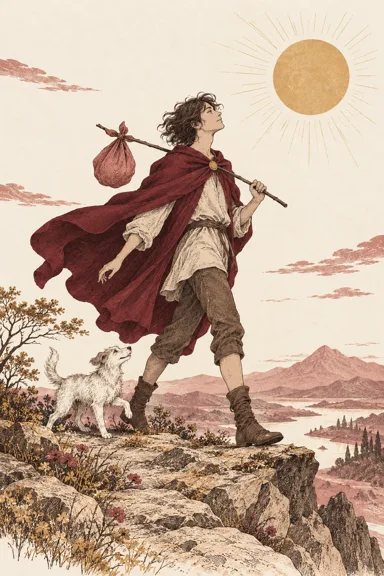
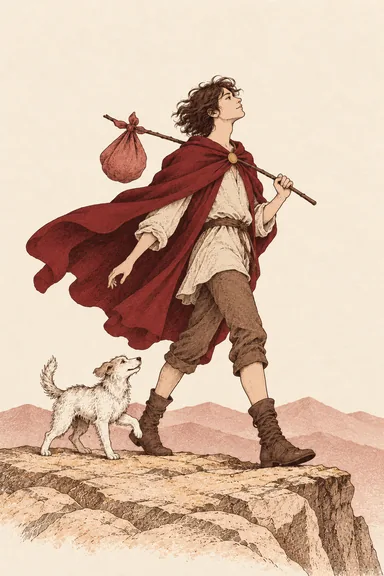
Polish v0.2 release: complete 78-card artwork, mobile QC, reading and SEO QA

diff --git a/public/style.css b/public/style.css
@@ -10,3 +10,6 @@ header,main,footer{max-width:1240px;padding-left:48px;padding-right:48px}header{
 @media(max-width:800px){header,main,footer{padding-left:26px;padding-right:26px}header{height:102px}nav{gap:18px}.home-intro{column-gap:30px}h1{font-size:44px}.primary-grid,.secondary-grid{grid-template-columns:repeat(2,1fr)}.reading-tile:nth-child(2){border-right:0}.reading-tile:nth-child(n+3){border-top:1px solid var(--line)}.deck{grid-template-columns:repeat(10,minmax(0,1fr))}.footer-grid{grid-template-columns:1.5fr 1fr 1fr}.card-summary{gap:10px}.summary-item>p{font-size:12px}}
 @media(max-width:520px){header,main,footer{padding-left:20px;padding-right:20px}header{height:auto;min-height:104px;flex-wrap:wrap;padding-top:18px;padding-bottom:13px;gap:16px}.brand{font-size:28px}.brand small{font-size:9px;letter-spacing:2px}nav{width:100%;gap:0;justify-content:space-between;font-size:14px}nav a{padding:5px 0}.home-intro{display:block;padding:35px 0}.home-intro h1{font-size:37px}.home-intro p{font-size:16px;margin-top:20px}.home-intro .kicker{font-size:11px;letter-spacing:1.4px}.quiet-label{display:block;margin-top:17px;font-size:13px}.section-heading h2{font-size:23px}.section-heading>span{font-size:10px;max-width:100px;text-align:right}.primary-grid,.secondary-grid{gap:0}.reading-tile{min-height:225px;padding:22px 15px}.tile-index{font-size:12px;margin-bottom:23px}.tile-top{font-size:23px}.tile-bottom{font-size:14px}.tile-link{font-size:14px;padding-top:20px}.small{min-height:172px;padding:20px 15px}.small .tile-top{font-size:19px}.small .tile-bottom{font-size:14px}.how{grid-template-columns:1fr;gap:25px;padding:35px 0}.how h2{font-size:28px}.about{padding:35px 0}.about h2{font-size:27px}.about p{font-size:16px}.trust-line{gap:18px;flex-wrap:wrap}.guide-teaser h2{font-size:25px}.footer-grid{grid-template-columns:1fr 1fr;gap:27px}.footer-grid>div:first-child{grid-column:1/-1}.footer-grid>div>a:not(.brand){font-size:14px}.footer-bottom,footer .disclaimer{font-size:12px}.reading-intro{margin-top:28px}.reading-intro h1{font-size:37px}.reading-intro p:not(.lead){font-size:16px}.reading-intro .lead{font-size:20px}.reading-meta{gap:12px;font-size:13px}.reading-meta span+span{padding-left:12px}.question-panel{padding:25px 20px;border-radius:0}.panel-heading h2{font-size:23px}.panel-heading p{font-size:16px}.question-panel label>span{font-size:13px}.deck{grid-template-columns:repeat(6,minmax(0,1fr));gap:7px}.card-back:before{font-size:20px;width:23px;height:33px}.card-back:after{inset:8px}.selection-heading h2{font-size:25px}.card-summary{overflow-x:auto;justify-content:flex-start;padding:4px 2px 15px;gap:12px}.summary-item{flex:0 0 109px}.mini-card{padding:9px 7px 10px;border-radius:2px}.mini-card .roman{font-size:14px}.mini-card strong{font-size:12px}.summary-item>p{font-size:12px}.result-position{padding:25px 0}.result-position>p{font-size:16px}.result-title h3{font-size:21px}.synthesis{padding:25px 20px}.synthesis p{font-size:16px}.results-heading h2{font-size:29px}.daily-grid{display:block}.spread-info li h3{font-size:17px}.spread-info li p{font-size:16px}.detail-card{width:90px;margin-left:18px}.detail-card .mini-card{height:135px}.detail-card .deck-glyph{font-size:32px}.legal h1{font-size:31px}.legal p{font-size:16px}.guide-list h2{font-size:22px}.guide-list>a{gap:16px}.guide-list p{font-size:16px}.section-heading{align-items:center}.faq-section h2{font-size:24px}summary{font-size:16px}details p{font-size:16px}}
 @media(max-width:360px){.deck{grid-template-columns:repeat(5,minmax(0,1fr))}.section-heading>span{display:none}.section-heading h2{font-size:23px}.home-intro h1{font-size:34px}}
+/* Release polish: image slot stays stable, including failed image requests. */
+.artwork-holder{position:relative;display:block;width:100%;height:75%;overflow:hidden}.artwork-holder>.deck-glyph{position:absolute;inset:0;height:100%;opacity:0}.mini-card .artwork-holder img,.card-front .artwork-holder img{position:absolute;inset:0;width:100%;height:100%;object-fit:contain;background:var(--paper)}.artwork-holder.image-failed>.deck-glyph{opacity:1}.card-front .artwork-holder{height:72%}.mini-card.is-reversed .artwork-holder img,.card-front.is-reversed .artwork-holder img{transform:rotate(180deg)}.card-front .artwork-holder .deck-glyph{font-size:22px}.card-front .artwork-holder small{display:none}.mini-card .artwork-holder .deck-glyph{height:100%}
+nav a{min-height:44px;display:inline-flex;align-items:center}footer .footer-grid>div>a:not(.brand){min-height:40px;display:flex;align-items:center}

diff --git a/scripts/optimize-artwork.py b/scripts/optimize-artwork.py
@@ -1,0 +1,22 @@
+"""Convert approved card PNGs to web assets. Requires Pillow only for authoring.
+Usage: python scripts/optimize-artwork.py /absolute/artwork-directory
+Source names: fool/lovers/tower/moon/sun or canonical major-N/suit-N.
+No source art is copied into the production output.
+"""
+from pathlib import Path
+from PIL import Image, ImageOps
+import sys
+source=Path(sys.argv[1]); output=Path('public/artwork'); output.mkdir(exist_ok=True)
+anchors={'major-0':'fool','major-6':'lovers','major-16':'tower','major-18':'moon','major-19':'sun'}
+allowed={f'major-{i}' for i in range(22)}|{f'{s}-{i}' for s in ['wands','cups','swords','pentacles'] for i in range(1,15)}|set(anchors.values())
+for path in sorted(source.glob('*.png')):
+ if path.stem not in allowed: continue
+ image=ImageOps.exif_transpose(Image.open(path)).convert('RGB')
+ if abs(image.width/image.height-2/3)>0.01: raise ValueError(f'Wrong aspect: {path}')
+ name=anchors.get(path.stem,path.stem)
+ for width,suffix in [(192,'-small'),(384,'')]:
+  target=output/f'{name}{suffix}.webp'
+  temporary=target.with_suffix('.tmp.webp')
+  image.resize((width,width*3//2),Image.Resampling.LANCZOS).save(temporary,quality=83,method=6)
+  temporary.replace(target)
+print('Approved artwork optimized to 192/384px WebP.')

diff --git a/scripts/contact-sheet.py b/scripts/contact-sheet.py
@@ -1,0 +1,14 @@
+"""Create mobile-scale deck overview from optimized production assets."""
+from PIL import Image,ImageDraw
+from pathlib import Path
+import json,subprocess
+cards=json.loads(subprocess.check_output(['node','--input-type=module','-e',"import {cards} from './src/data/cards.mjs';import {artwork} from './src/card-view.mjs';console.log(JSON.stringify(cards.map(c=>({id:c.id,file:artwork[c.id]}))));"]))
+for width in [50,100]:
+ cell=width+20;height=width*3//2+30
+ image=Image.new('RGB',(cell*10,height*8),'#f5eee2');draw=ImageDraw.Draw(image)
+ for i,c in enumerate(cards):
+  path=Path('public/artwork')/(c['file']+'.webp')
+  if not path.exists():raise FileNotFoundError(path)
+  artwork=Image.open(path).resize((width,width*3//2),Image.Resampling.LANCZOS)
+  x=(i%10)*cell;y=(i//10)*height;image.paste(artwork,(x,y));draw.text((x,y+width*3//2+3),c['id'],fill='#542b35')
+ image.save(f'docs/artwork/deck-contact-{width}.jpg',quality=95)

diff --git a/QA.md b/QA.md
@@ -1,18 +1,16 @@
-# v0.2 verification — 2026-10-05 KST
+# v0.2 release verification — 2026-10-05
 
-- Production build: 20 static pages plus 404, sitemap, robots. `npm run build` passes.
-- `npm test`: 11 tests pass. 78 unique cards (22 major + four suits ×14), every position and orientation, 200 complete shuffles, unbiased random rejection, daily persistence/corruption/date expiry, same-topic position variation, middle-card synthesis variation, unique SEO, every internal static link and all five artwork mappings.
-- Browser: home → reunion → five picks → result → related feelings → four picks → result.
-- Browser direct routes: love (5), breakup (5), contact (3), reunion timing (3), YES/NO (1,2,3), today (1) completed. Today remained Cups Page upright after reload.
-- Guide hub → reunion guide → reunion reading navigated successfully. Missing URL displayed custom 404 page.
-- Desktop home, deck and report visually inspected.
-- 390px iframe production-component fixture tested all five prototype images, flip, summary, and detail. 320px home also inspected. Document scrollWidth = clientWidth (375 and 305 after scrollbar). Card summaries intentionally scroll horizontally inside their own region.
-- Local deterministic artwork fixture changes only shuffled order for QA; removed by final clean build, never part of production source.
-- Final engine changes rechecked in browser reunion result. App-origin error logs empty. Browser-extension metadata errors excluded.
-- Shell HTTP probing was unavailable from execution workspace; browser direct navigation and generated route/link validation were used. Custom 404 UI verified, production HTTP status not independently measured.
-- Five-asset contact sheet inspected: consistent palette, denser Moon/Sun detail at small size. 73 further generated illustrations intentionally not produced; see ARTWORK.md.
-- WebP assets have explicit dimensions, responsive 192/384 variants, lazy loading. No images in initial home download or unrevealed deck. No third-party fonts/framework/runtime AI scripts.
+- Approved brand, navigation, reading types, spreads, routes, Guide/About/FAQ preserved.
+- 78 distinct data cards: Major 22 + Minor 56. 500 five-card draws cover all 78 and all 16 courts; no duplicate physical cards. Upright/reversed interpretation and position variation tested.
+- Fifteen automated checks: data, shuffle/rejection sampling, orientation, daily persistence/corruption/date expiry, Star position/context variation, YES/NO linkage, all-spread synthesis including secondary tags, SEO uniqueness/internal links and all 156 artwork paths.
+- All eight reading flows completed in preview. YES/NO 1/2/3-card choices; daily card persisted after reload. Guide hub/article/related reading, About/FAQ and custom 404 checked. Service copy uses 78 while educational Major 22 remains.
+- Prototype artwork gate passed, specification frozen, remaining 73 generated, full 78 reviewed at 50px and 100px contact sheets. King of Swords weapon geometry corrected once.
+- 320/390px actual production-component fixtures: five anchors and mixed Page/Knight/Queen/King/Major results, flip, 93px summary artwork, 74px position artwork. Document widths 305/375 after scrollbar equal scroll widths; card summary has intentional contained horizontal scrolling.
+- Every WebP decoded successfully. Responsive/lazy loading, reserved dimensions and missing-image fallback verified. Below-fold artwork remains lazy until approached. No artwork download on initial home or unrevealed deck.
+- Reversed primary meaning tags authored; varied position voices and reversed context reduce repeated generic text. General advice for daily/YESNO avoids romance assumptions. Summary weighs every card and its primary/secondary semantic signals; Korean particle issues corrected.
+- Twenty static indexable pages have unique metadata/H1/canonical and complete sitemap/internal links; robots and noindex custom 404 checked. Fingerprints protect against stale code/artwork after redeploy. Local qa-* fixtures removed by final build.
+- No observed app-origin blocking console errors. Browser extension metadata errors excluded. Temporary browser approval service capacity error recovered without changing safeguards.
 
 ## Limits
 
-No physical-device or screen-reader testing, no Lighthouse/CWV field data, and no 78-illustration completeness claim. Semantic summaries are deterministic templates; ongoing human editorial review can improve variation. Optional existing WebMCP hook is feature-detected; browser did not expose it.
+No physical-device or screen-reader QA, Lighthouse or CWV field data. Browser preview/custom 404 UI was checked; production HTTP status independently unmeasured. Reading remains a deterministic editorial rule engine, not question semantic analysis or verified predictions about people/future.

diff --git a/ARTWORK.md b/ARTWORK.md
@@ -1,19 +1,9 @@
-# Pick a Card artwork — v0.2
+# Pick a Card artwork — release polish
 
-## Production assets
+Built-in ImageGen; no Higgsfield or runtime generation. All 78 cards now have original artwork. The five approved anchors (Fool, Lovers, Tower, Moon, Sun) were simplified for mobile: larger dominant subjects, reduced flowers, folds, distant scenery and hatching; ivory/burgundy/rose/ochre direction preserved.
 
-Built-in imagegen was used, not Higgsfield. No generation API exists in the deployed website. Five original illustrations are in `public/artwork/`: fool, lovers, tower, moon, sun, each in 192×288 and 384×576 WebP.
+Prototype gate passed in actual production components at mobile selection/flip, 109px summary and 90px detail (artwork interiors 93/74px). The specification was frozen in CARD_ART_SPECIFICATION.md before making the remaining 73. Names, Roman numerals, ranks and orientation are HTML; no generated typography.
 
-Shared prompt: portrait 2:3 illustration only; contemporary editorial fine-line engraving; warm ivory paper, charcoal hatching, burgundy, dusty rose, restrained ochre; negative space; no typography, numbers, frames, glossy fantasy, realism, anime, horror.
+Full 78-card contact sheets: docs/artwork/deck-contact-100.jpg and deck-contact-50.jpg. Reviewed palette, style, line density, primary symbols, court identities, anatomy, artifacts and typography. One additional QC correction: King of Swords weapon geometry. No other final deck outlier required regeneration.
 
-Subjects: traveler with bundle and small dog; two figures joining hands beside branching garden path; lightning-struck tower; crescent moon and path between two towers; radiant sun over flowering garden.
-
-## Prototype decision
-
-Inspected five together and in the production card components, including flip, summary and detail. Color and line language are coherent. The Moon and Sun have greater landscape density than Fool and Tower. At mobile selection size fine hatching loses definition. Do not extrapolate these five to 73 more without simplifying the illustration specification first.
-
-Five selected illustrations are integrated. The other 73 cards use the shared framed typographic/suit design, not generated illustration. All 78 are implemented as data and drawable cards; this is not a 78-illustration deck. Court rank labels distinguish Page/Knight/Queen/King.
-
-## Next illustration specification
-
-Keep the five-ink palette; use one dominant recognizable symbol; reduce lower-half landscape detail and hatching; maintain 15% internal negative space. Names, ranks, position and direction remain HTML. Evaluate at 50px flip, 109px summary and 90px detail before extending.
+156 optimized files in public/artwork: 192×288 and 384×576 WebP, quality 83. Total 3,563,974 bytes; small set 769,190 bytes; largest file 52,012 bytes. Lazy responsive images with explicit dimensions; no whole-deck preload. Broken artwork reveals the existing suit/number fallback. Originals are outside deployed assets. Optimization writes atomically and all 156 files were decoded before release.

diff --git a/CARD_ART_SPECIFICATION.md b/CARD_ART_SPECIFICATION.md
@@ -1,0 +1,21 @@
+# PICK A CARD — CARD ART SPECIFICATION
+
+Frozen after normalized five-prototype mobile UI gate (2026-10-04).
+
+## Style anchors
+Normalized Fool, Lovers, Tower, Moon, Sun. Warm ivory paper; burgundy/dusty rose etched vintage editorial illustration; restrained ochre/muted gold; subtle paper grain. Quiet printed quality, never glossy, digital painting, flat vector, cute, photoreal, fantasy concept, neon, 3D or watercolor. Original interpretation of traditional symbolism; no copied modern deck.
+
+## Composition
+Portrait 2:3 standalone illustration, no frame. One immediately identifiable LARGE primary subject, one strong secondary symbol, minimal supporting scenery. Broad coherent silhouettes, moderate engraving lines, generous ivory negative space. Remove tiny plants, dense foliage, minute folds, remote objects and ornamental clutter. Do not increase complexity to balance sparse cards. Similar perceived visual weight, not identical detail counts. Make the central symbol readable at 50px and all meaningful cues at 90–109px.
+
+## Palette and typography
+All suits inhabit the same ivory/burgundy/rose/ochre world. No separate blue Cups or red Wands deck. NO text, pseudo-text, numerals, Roman numerals, labels, signatures, rank/suit names or typographic borders inside generated art. UI supplies exact labels and orientation.
+
+## Minor / courts
+Ace–10: distinct symbolic scenes conveying the card meaning; never identical suit icons multiplied. Wands growth/action; Cups feeling/water; Swords thought/tension/air; Pentacles work/stability/earth. Page: curious standing learner. Knight: purposeful mounted traveler. Queen: composed seated nurturing authority. King: stable seated governing authority. Adult figures, simplified natural anatomy, no gratuitous crowded scenes.
+
+## Gate and QC
+Inspect 50/90/109/150px contact sheets, actual selection flip, result strip and position cards on mobile, plus desktop. Review silhouette, same-deck feeling, palette, line density, symbols, anatomy, pseudo-text and near-duplicate compositions. Only problematic assets are regenerated. Five normalized prototypes pass recognition and coherent style; Moon has denser lower scenery, Sun lighter ochre focus, both retain strong distinct focal points. Not all minor detail must remain readable at 50px (Fool dog is secondary).
+
+## Delivery
+192×288 and 384×576 WebP, quality83, responsive srcset, lazy loading, intrinsic dimensions, contain without cropping, local fallback. No whole-deck preload. Keep original art out of deployed output. UI reversal rotates illustration only; text remains upright.

diff --git a/README.md b/README.md
@@ -27,10 +27,10 @@ npm start
 - `src/engine.mjs`: 편향 없는 셔플, 해석, 포지션·태그 기반 전체 흐름, YES/NO, 일일 저장
 - `src/card-view.mjs`: 일관된 프레임·이름·순위·아트워크 매핑
 - `src/app.mjs`: 질문 → 직접 선택 → 뒤집기 → 보고서 → 관련 리딩
-- `public/artwork/`: 5장 원본 일러스트의 WebP 최적화본. 나머지 73장은 공통 그래픽 체계
+- `public/artwork/`: 전체 78장 original editorial 일러스트의 192/384px WebP 최적화본
 - `scripts/build.mjs`: 20개 정적 HTML 페이지와 sitemap/robots/404 생성
 - `tests/engine.test.mjs`: 덱·해석·무중복·보관·SEO·내부링크·이미지 검증
-- `ARTWORK.md`: 생성 도구/프롬프트/시안 평가와 확장 보류 근거
+- `ARTWORK.md`: 제작·정규화·전체 덱 QC 결과; 고정 규칙은 CARD_ART_SPECIFICATION.md
 
 ## 리딩과 개인정보
 
@@ -48,4 +48,4 @@ npm start
 
 ## 실제 남은 범위
 
-73장 추가 일러스트 및 5장 시안의 작은 크기 디테일 정리, 더 많은 카드별 포지션 문장과 종합 패턴 편집, 실제 모바일 기기/스크린리더 QA, 도메인·검색콘솔·광고·분석 도구 연결. 사이트는 78장 전체 일러스트 완성을 주장하지 않습니다.
+실제 모바일 기기/스크린리더 QA와 CWV 현장 측정은 수행하지 않았습니다. 도메인·검색콘솔·광고·분석 도구 연결은 이번 릴리스 범위 밖입니다. 리딩은 작성된 의미·주제·위치 문장을 조합하는 규칙 엔진이므로 지속적인 편집 검토가 가능합니다.
